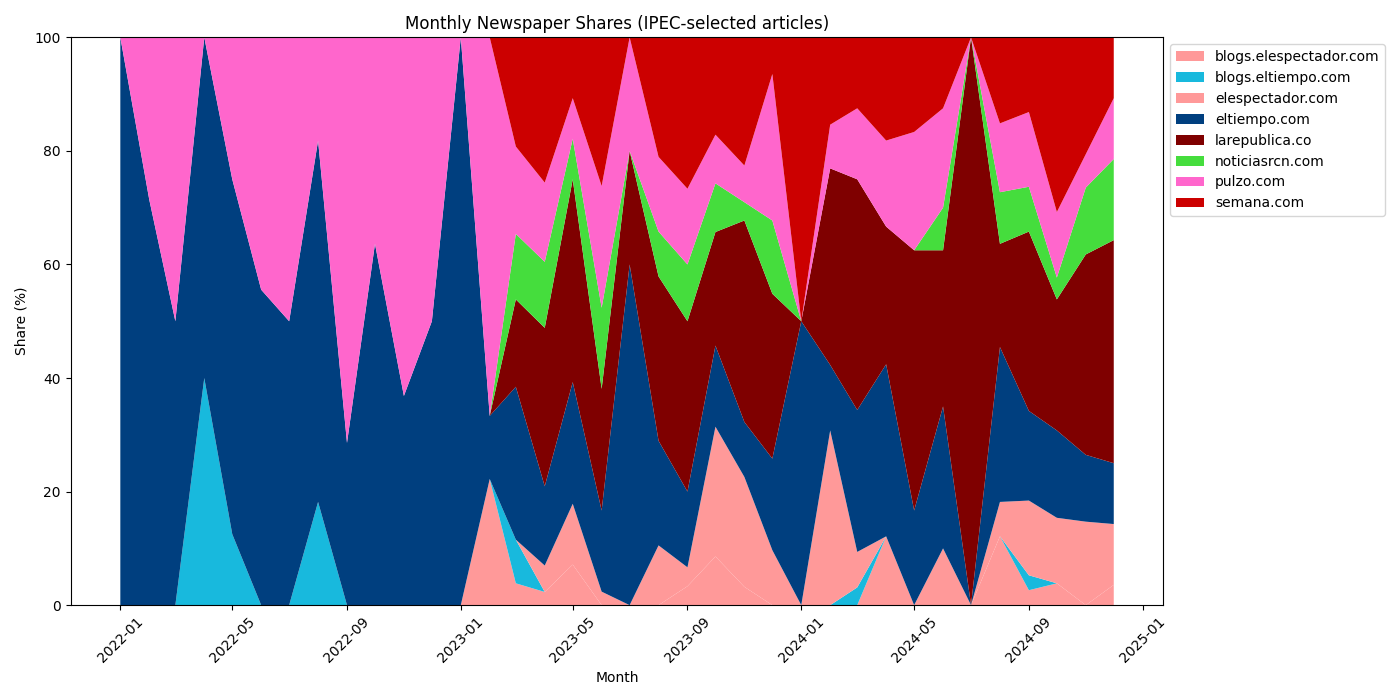
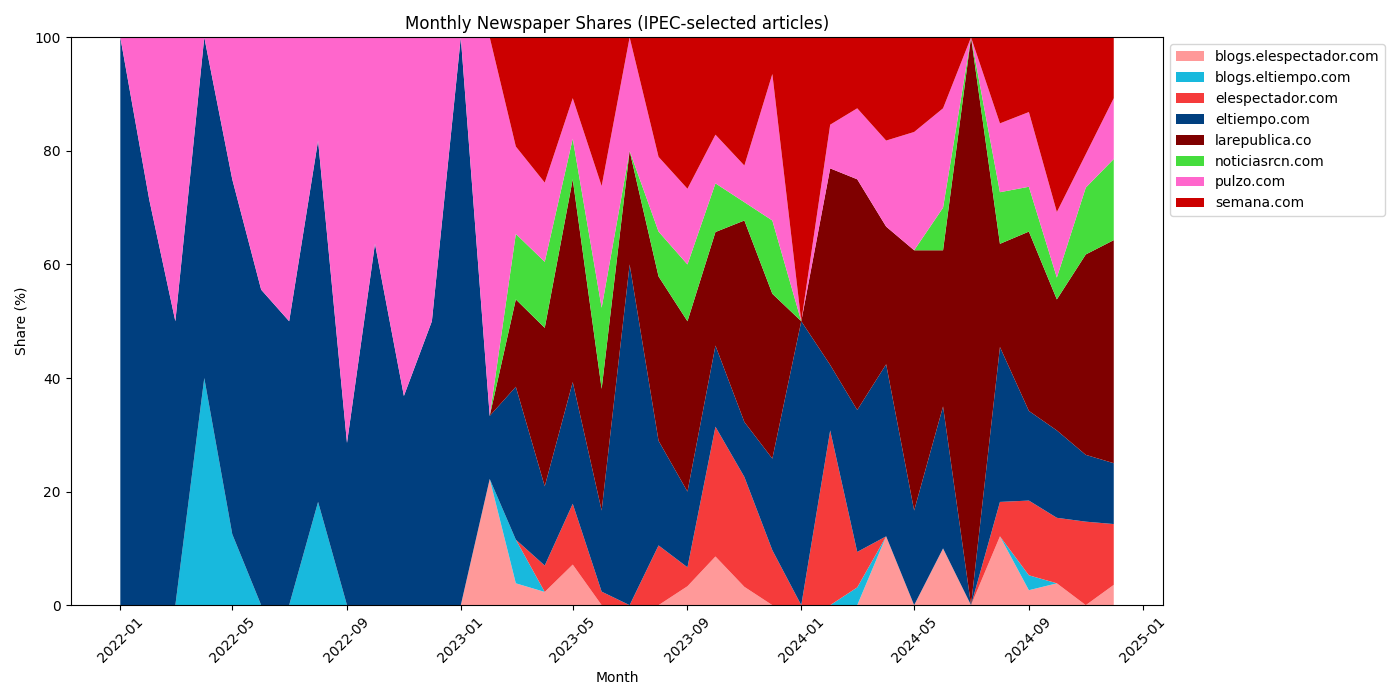
Fixed colors

Changed region(s): [[0.3686, 0.63, 0.645, 0.87], [0.7064, 0.72, 0.7986, 0.87], [0.8293, 0.12, 0.86, 0.15]]

diff --git a/scripts/9_visualizations.py b/scripts/9_visualizations.py
@@ -55,7 +55,7 @@ plt.savefig("figures/IPEC_comparison_el_tiempo_2022_2024.png")
 # Plot 3 - Newspaper Shares Stacked Area Chart
 
 colors = {
-    "elespectador.com": "#ff9999",   
+    "elespectador.com": "#f53b3b",   
     "blogs.elespectador.com": "#ff9999",
 
     "eltiempo.com": "#003f7f",      
